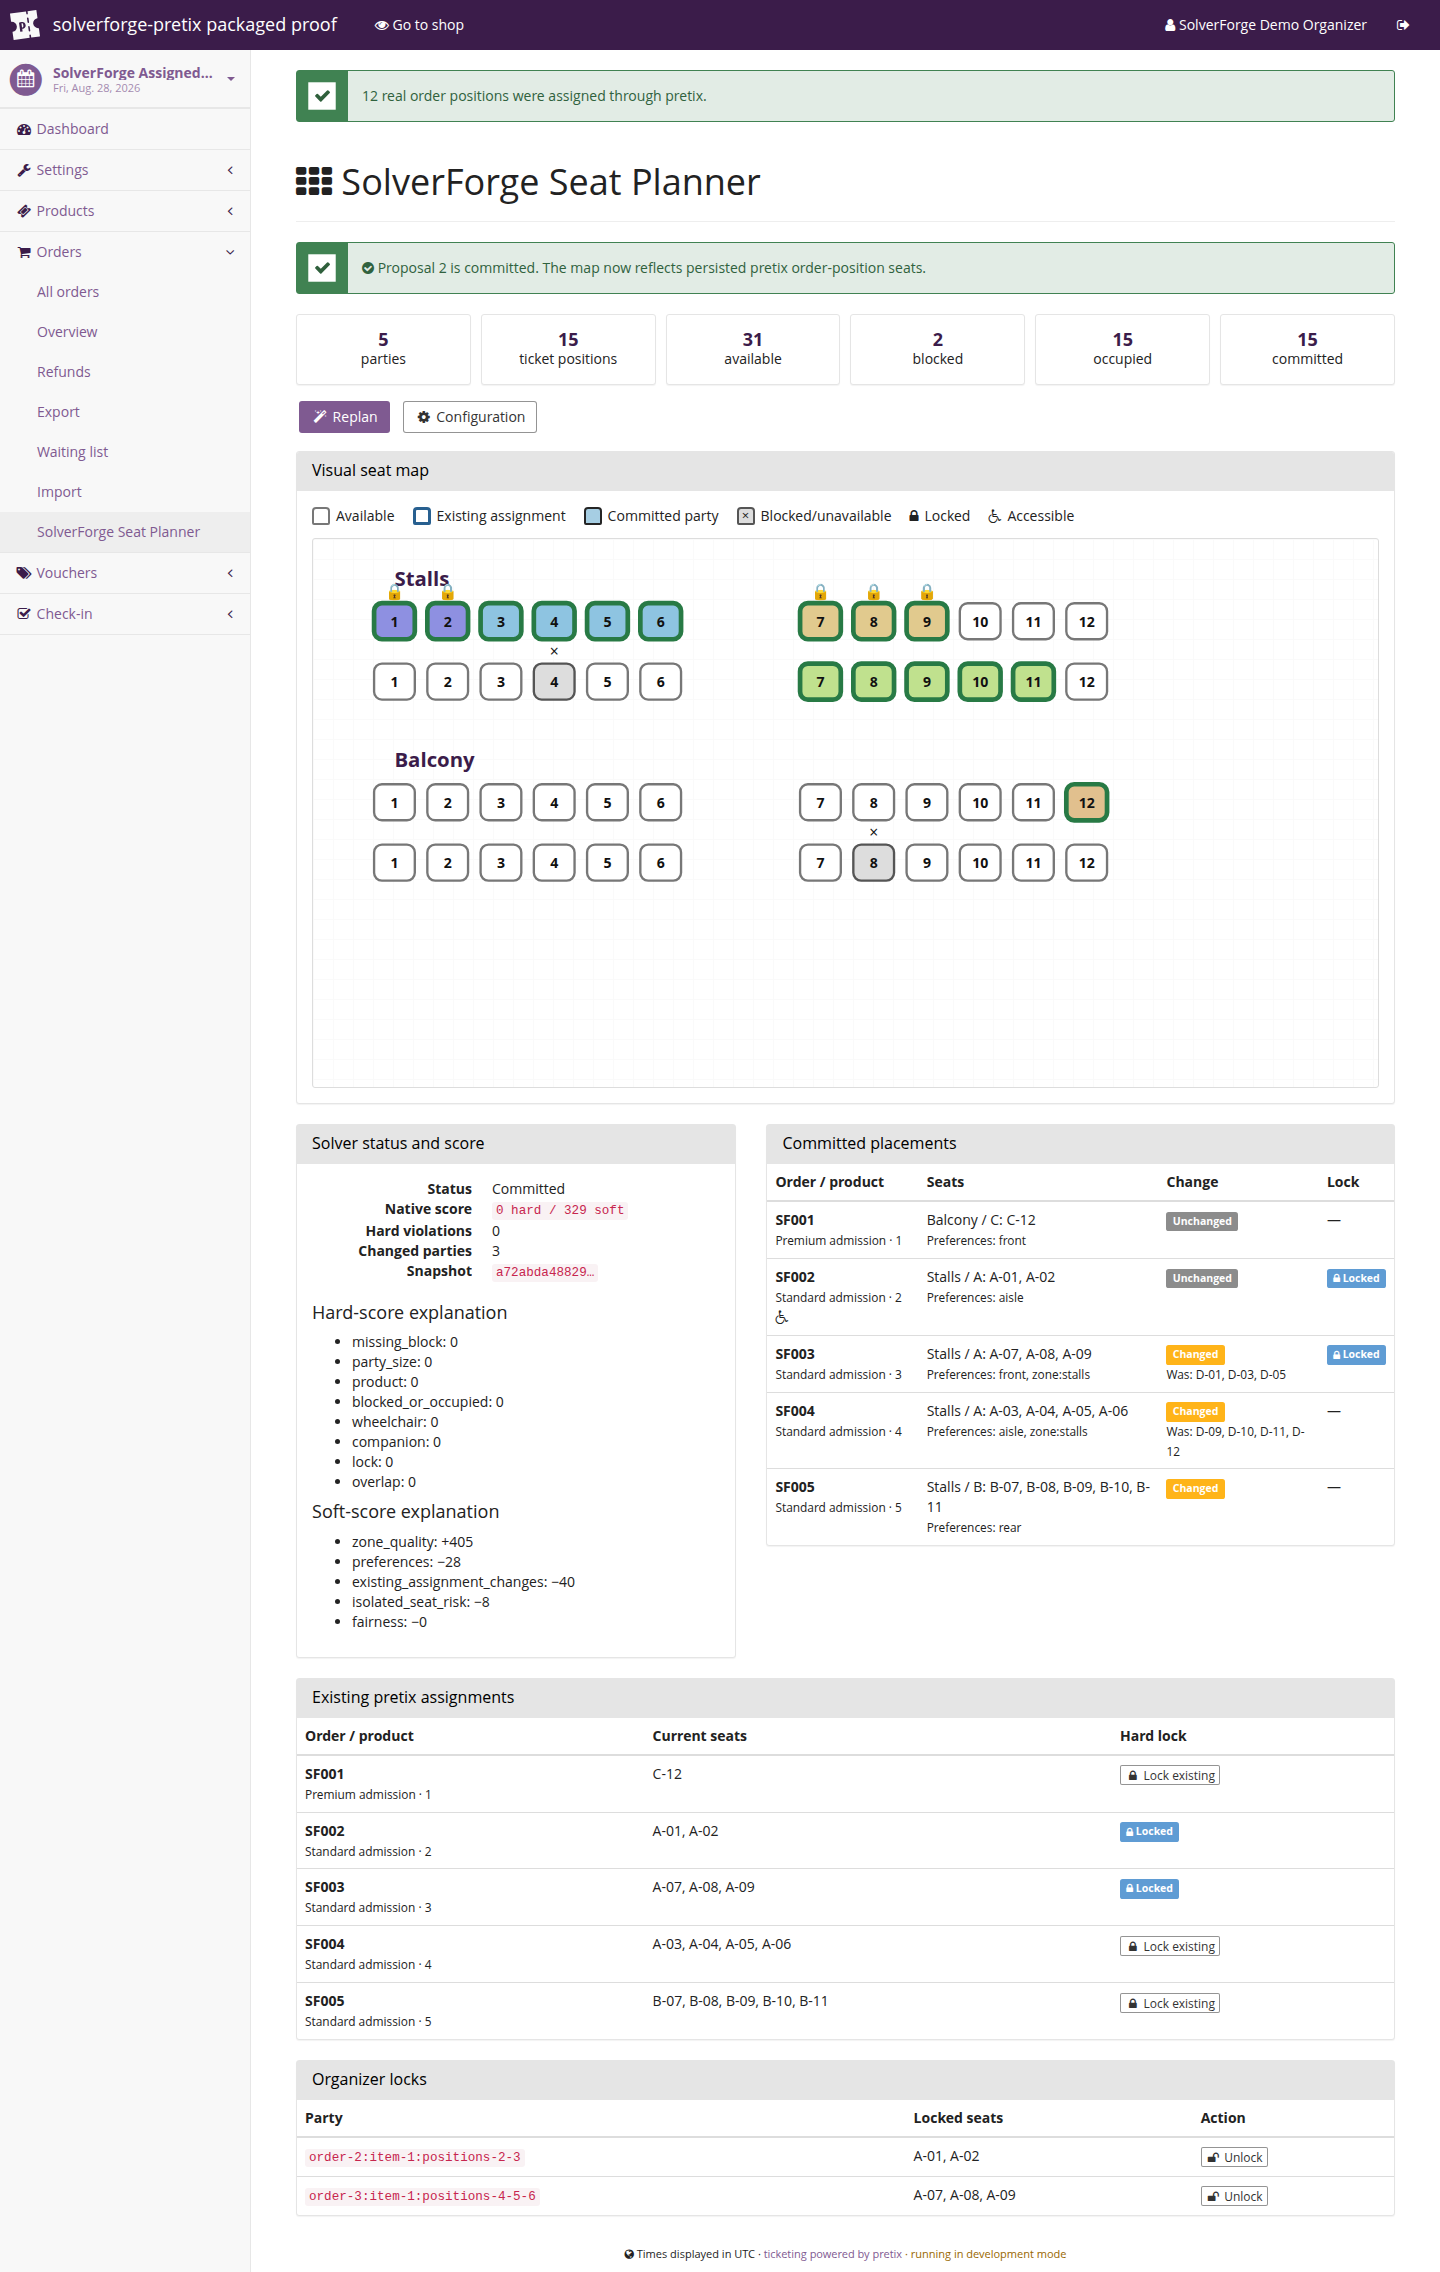
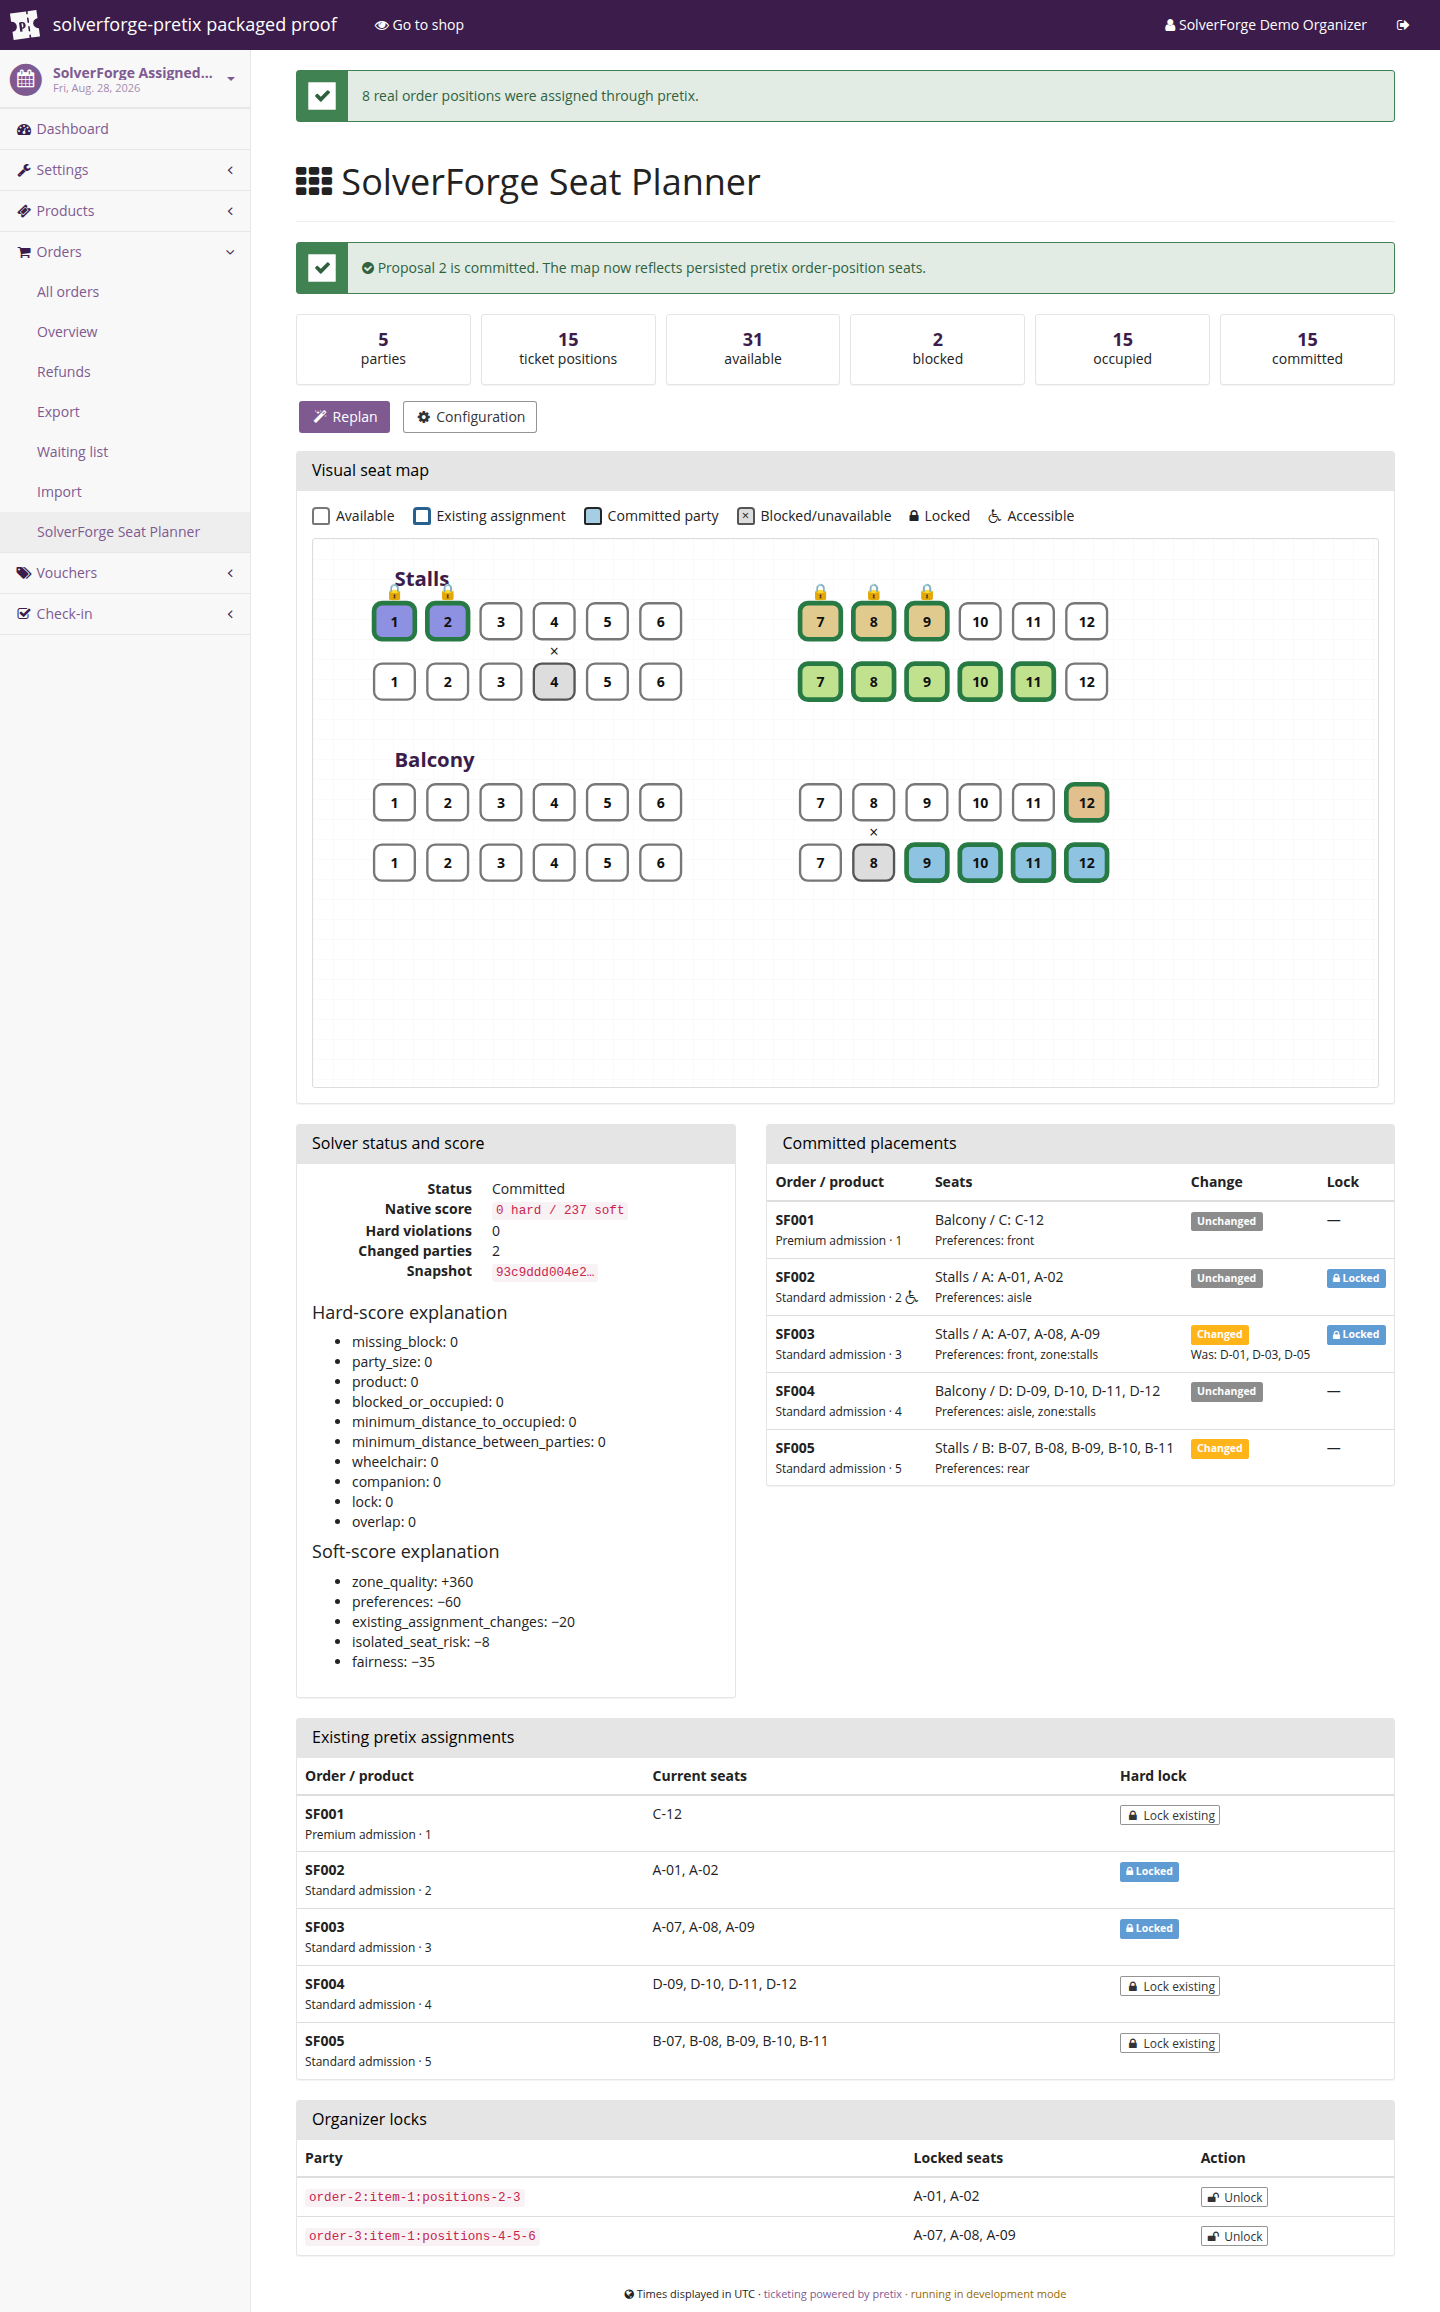
docs(evidence): refresh packaged browser proof
Record the clean-wheel nonzero-distance solve, lock, replan, service-layer commit, ordinary pretix order display, and post-restart persistence screenshots.

diff --git a/evidence/README.md b/evidence/README.md
@@ -5,13 +5,15 @@ The process ran outside the source tree from a clean CPython 3.14.6 virtual
 environment containing the built `solverforge-pretix` wheel and the exact
 `solverforge` 0.6.4 CPython wheel. The loaded native module was
 `solverforge._native`; the binding source pins SolverForge core 0.19.2 exactly.
+The demo used pretix minimum seat distance `31` with distance enforced within
+each row.
 
 | Evidence | What it proves |
 | --- | --- |
 | [`before-solve.png`](screenshots/before-solve.png) | Native pretix navigation, 48-seat map, live counts, blocked/occupied seats, poor existing assignments, and the original organizer lock before any proposal exists. |
-| [`after-solve.png`](screenshots/after-solve.png) | Preview-only proposal for all 15 positions, party colors, change explanations, and native score `0 hard / 329 soft`. |
+| [`after-solve.png`](screenshots/after-solve.png) | Preview-only proposal for all 15 positions, party colors, change explanations, zero minimum-distance violations, and native score `0 hard / 237 soft`. |
 | [`after-lock-replan.png`](screenshots/after-lock-replan.png) | SF003 locked at `A-07`–`A-09`, replanned without moving it, alongside the original wheelchair lock. |
-| [`after-commit.png`](screenshots/after-commit.png) | Explicit commit success for 12 changed positions, all 15 committed seats, zero hard violations, and persisted pretix assignments on the same map. |
+| [`after-commit.png`](screenshots/after-commit.png) | Explicit commit success for 8 changed positions, all 15 committed seats, zero hard violations, and persisted pretix assignments on the same map. |
 | [`pretix-order-after-commit.png`](screenshots/pretix-order-after-commit.png) | Ordinary pretix order detail for SF003 showing `Stalls, Row A, Seat 7`, `8`, and `9`, plus pretix's own order-change history. |
 | [`after-restart.png`](screenshots/after-restart.png) | The same ordinary pretix order detail loaded after stopping and restarting the web process. |
 
